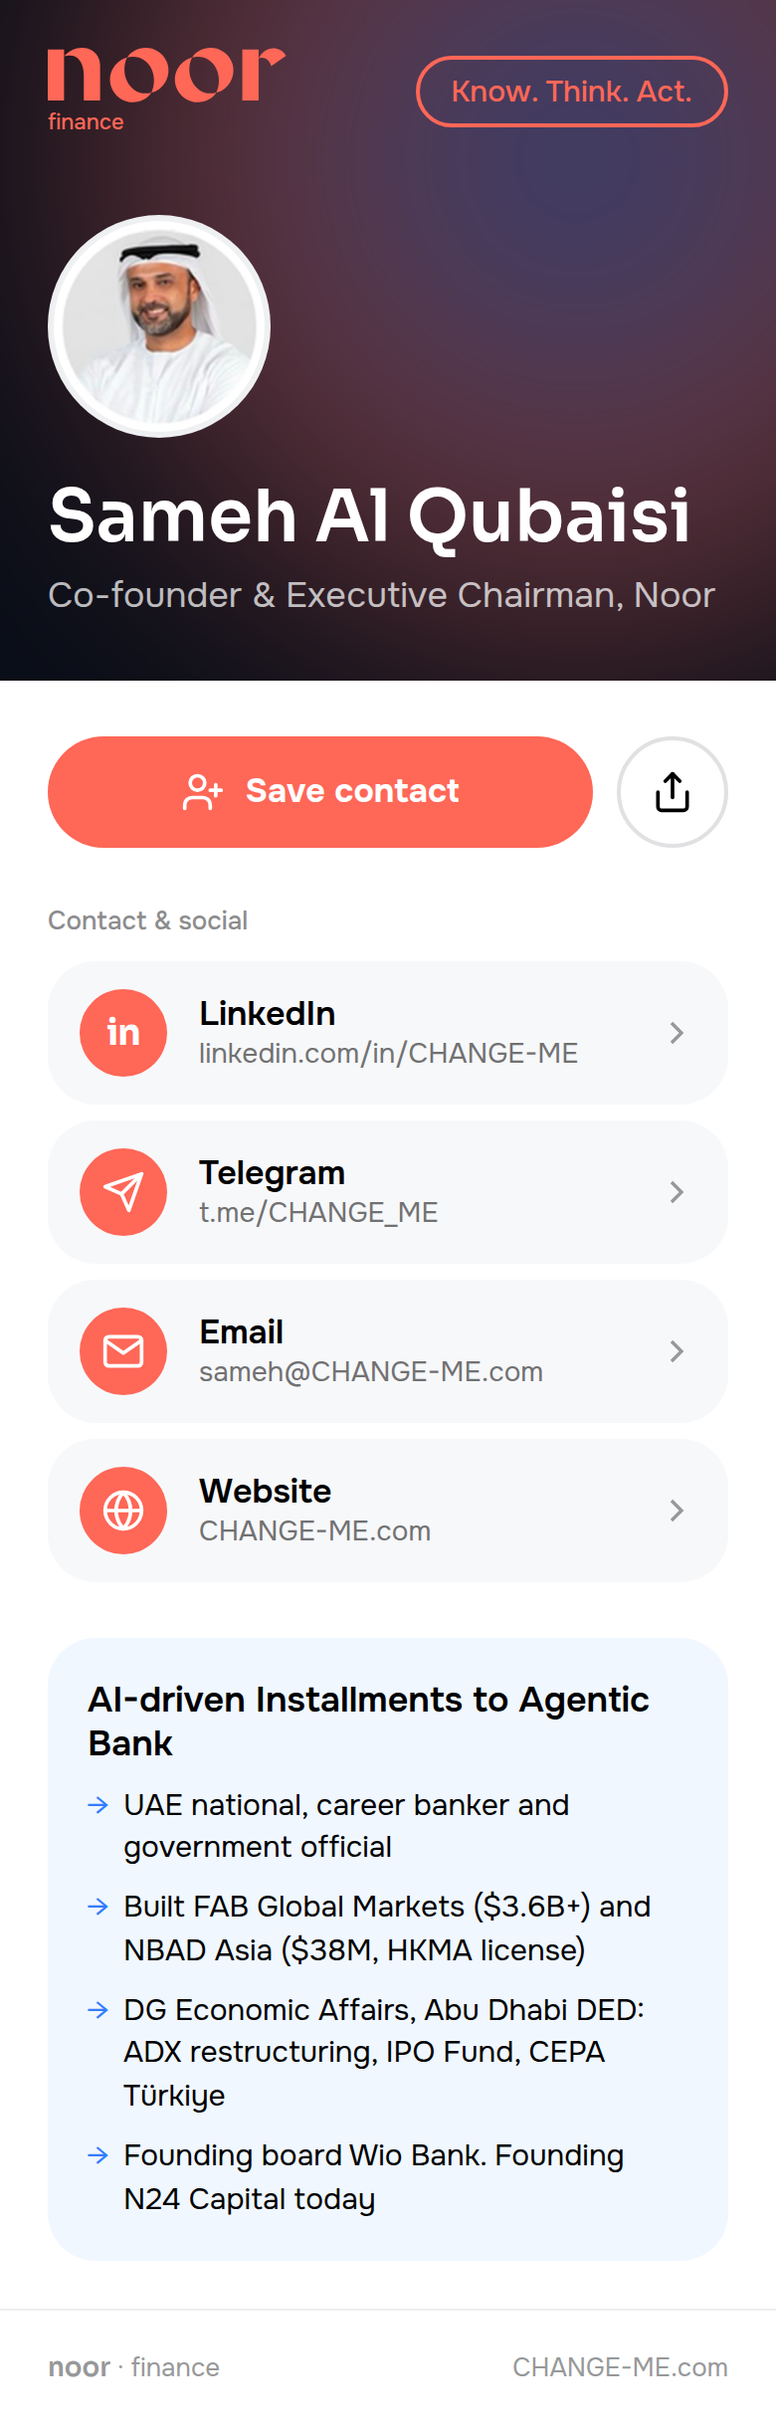
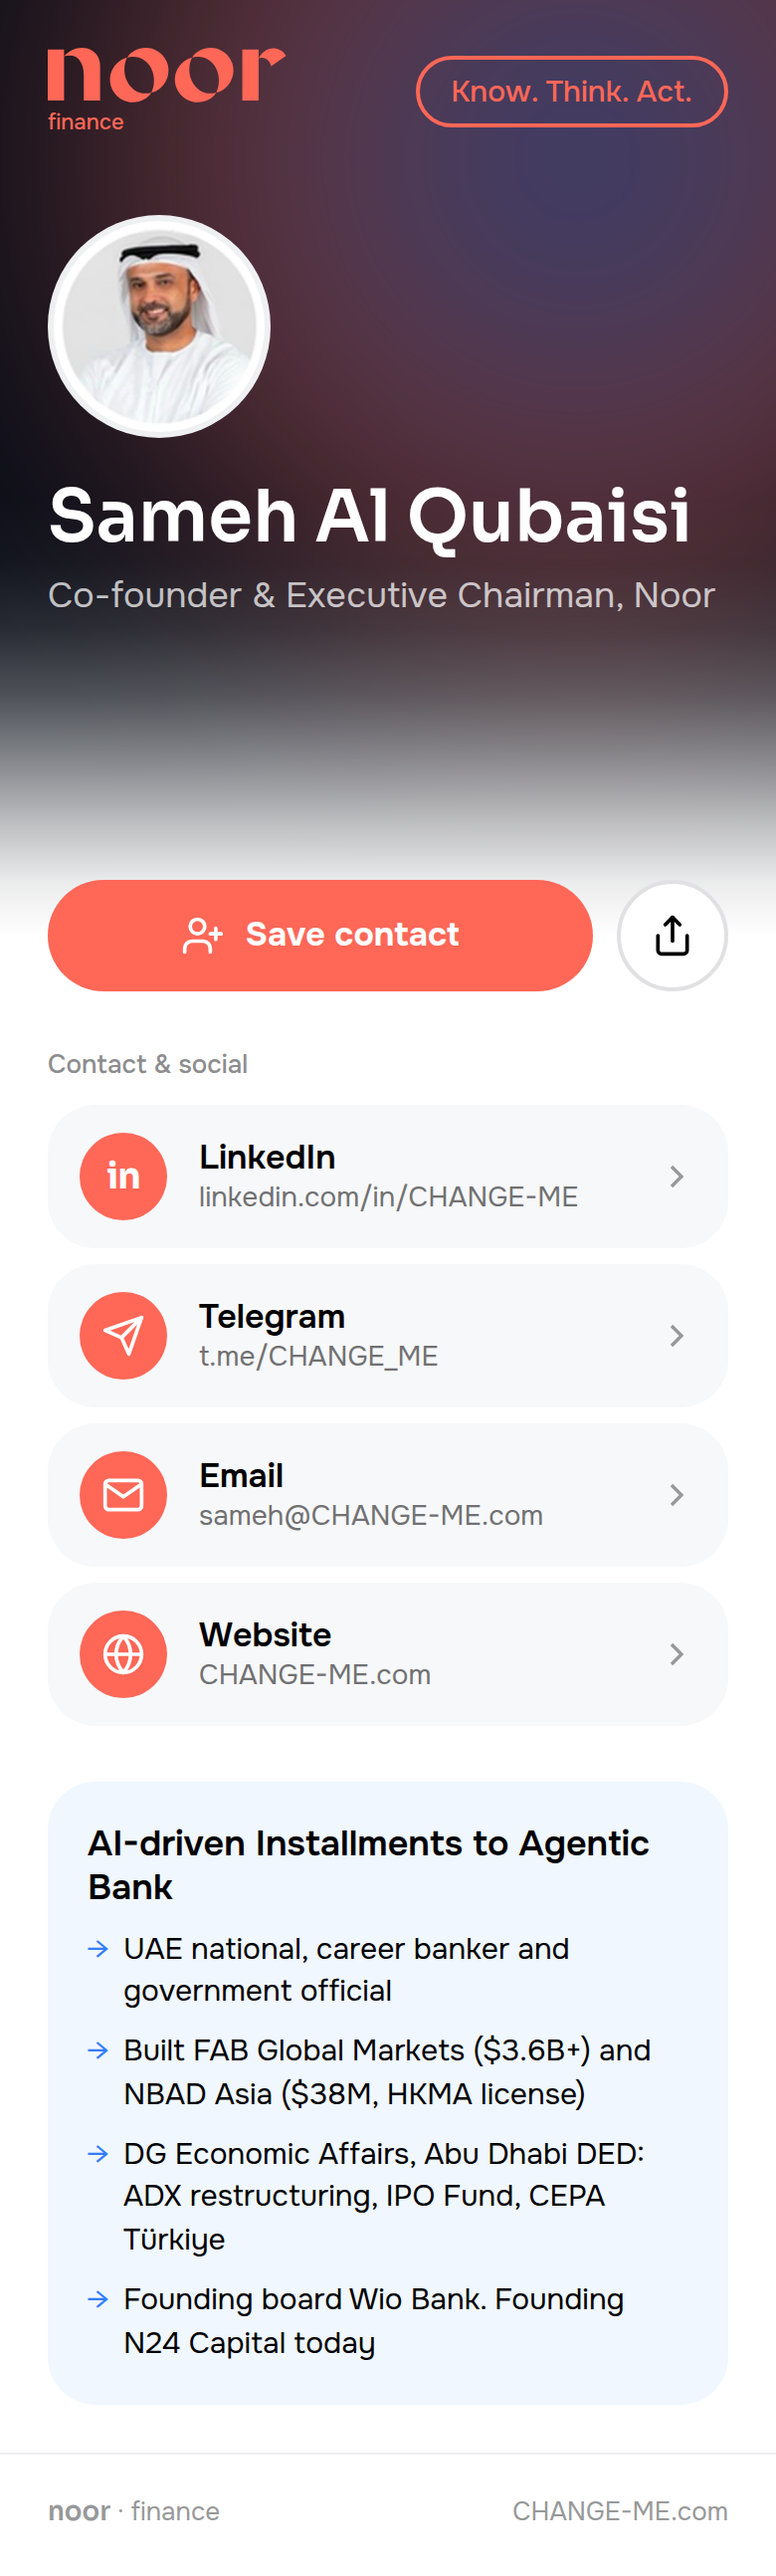
Business cards: smooth gradient from dark header into white body
Claude-Session: https://claude.ai/code/session_01FVFR16hJqhAP33fZUFohZe

diff --git a/noor-card/max/index.html b/noor-card/max/index.html
@@ -29,7 +29,9 @@
 
   /* Hero — the deck's dark cover with blurred terracotta/blue light */
   .hero{position:relative;overflow:hidden;background:var(--dark);color:var(--white);
-        padding:calc(24px + env(safe-area-inset-top)) 24px 32px}
+        padding:calc(24px + env(safe-area-inset-top)) 24px 160px}
+  .hero::after{content:"";position:absolute;left:0;right:0;bottom:0;height:220px;
+        background:linear-gradient(to bottom,rgba(255,255,255,0) 0%,rgba(255,255,255,.03) 15%,rgba(255,255,255,.12) 30%,rgba(255,255,255,.28) 45%,rgba(255,255,255,.5) 60%,rgba(255,255,255,.74) 75%,rgba(255,255,255,.92) 88%,#fff 100%)}
   .hero::before{content:"";position:absolute;right:-160px;top:-180px;width:520px;height:520px;border-radius:50%;
         background:radial-gradient(circle,#337DFF 0%,#FF6757 55%,transparent 75%);filter:blur(70px);opacity:.45}
   .hero > *{position:relative}
@@ -44,7 +46,7 @@
   .tag{display:inline-flex;align-items:center;flex:0 0 auto;padding:6px 16px;white-space:nowrap;border:2px solid var(--terra);
        border-radius:100px;color:var(--terra);font-size:15px;font-weight:500}
 
-  .body{padding:28px 24px 24px;display:flex;flex-direction:column;gap:28px;flex:1}
+  .body{padding:0 24px 24px;margin-top:-28px;position:relative;display:flex;flex-direction:column;gap:28px;flex:1}
   .actions{display:flex;gap:12px}
   .btn{flex:1;display:inline-flex;align-items:center;justify-content:center;gap:10px;height:56px;border-radius:72px;
        font-weight:700;font-size:17px;cursor:pointer;border:0;font-family:inherit}

diff --git a/noor-card/sameh/index.html b/noor-card/sameh/index.html
@@ -29,7 +29,9 @@
 
   /* Hero — the deck's dark cover with blurred terracotta/blue light */
   .hero{position:relative;overflow:hidden;background:var(--dark);color:var(--white);
-        padding:calc(24px + env(safe-area-inset-top)) 24px 32px}
+        padding:calc(24px + env(safe-area-inset-top)) 24px 160px}
+  .hero::after{content:"";position:absolute;left:0;right:0;bottom:0;height:220px;
+        background:linear-gradient(to bottom,rgba(255,255,255,0) 0%,rgba(255,255,255,.03) 15%,rgba(255,255,255,.12) 30%,rgba(255,255,255,.28) 45%,rgba(255,255,255,.5) 60%,rgba(255,255,255,.74) 75%,rgba(255,255,255,.92) 88%,#fff 100%)}
   .hero::before{content:"";position:absolute;right:-160px;top:-180px;width:520px;height:520px;border-radius:50%;
         background:radial-gradient(circle,#337DFF 0%,#FF6757 55%,transparent 75%);filter:blur(70px);opacity:.45}
   .hero > *{position:relative}
@@ -44,7 +46,7 @@
   .tag{display:inline-flex;align-items:center;flex:0 0 auto;padding:6px 16px;white-space:nowrap;border:2px solid var(--terra);
        border-radius:100px;color:var(--terra);font-size:15px;font-weight:500}
 
-  .body{padding:28px 24px 24px;display:flex;flex-direction:column;gap:28px;flex:1}
+  .body{padding:0 24px 24px;margin-top:-28px;position:relative;display:flex;flex-direction:column;gap:28px;flex:1}
   .actions{display:flex;gap:12px}
   .btn{flex:1;display:inline-flex;align-items:center;justify-content:center;gap:10px;height:56px;border-radius:72px;
        font-weight:700;font-size:17px;cursor:pointer;border:0;font-family:inherit}
